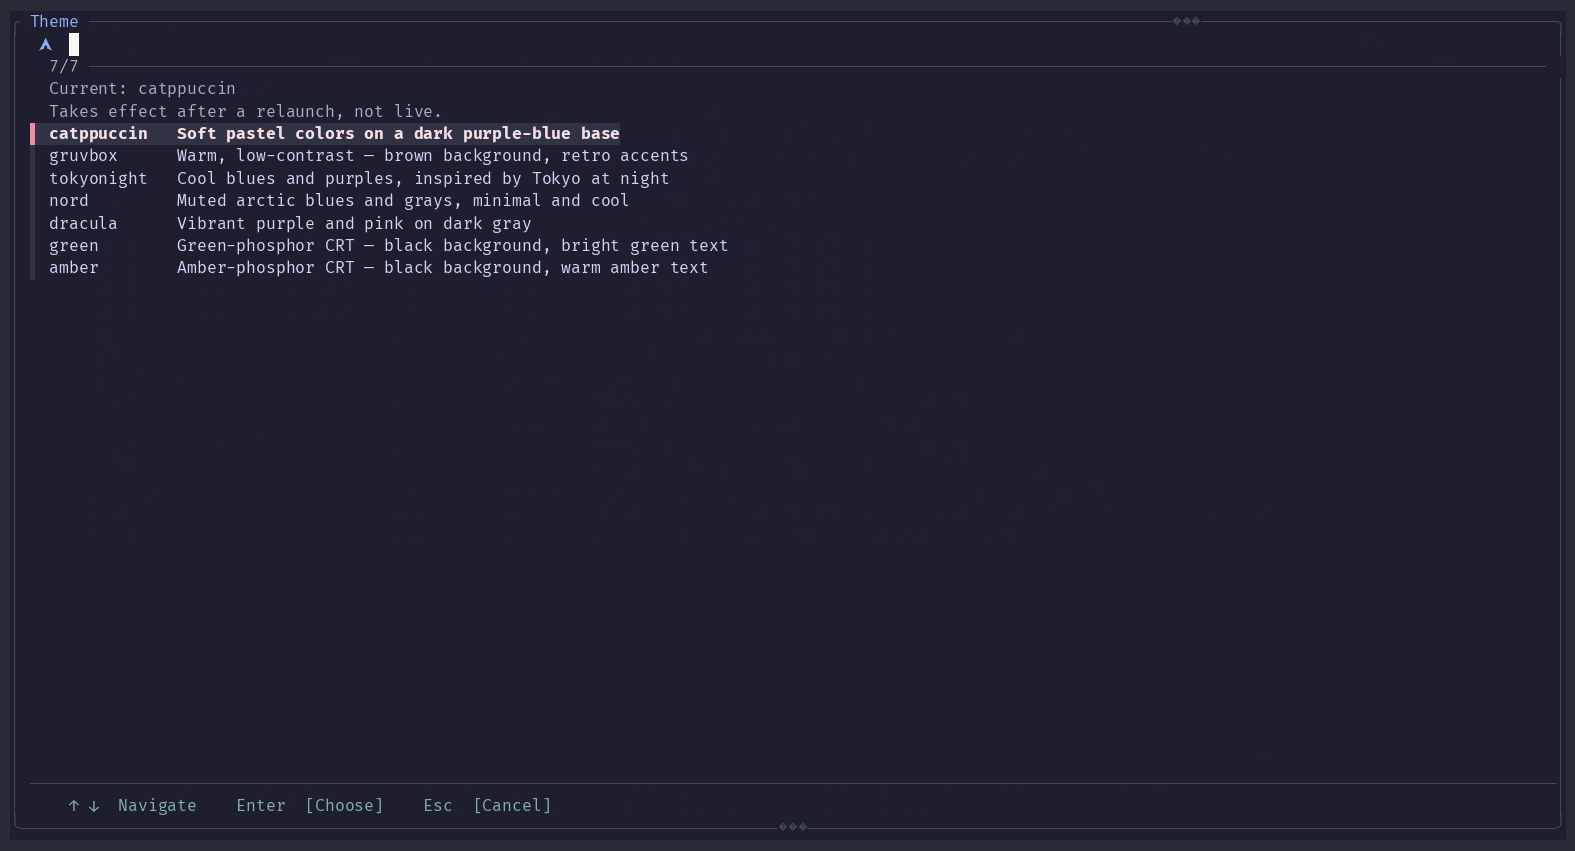
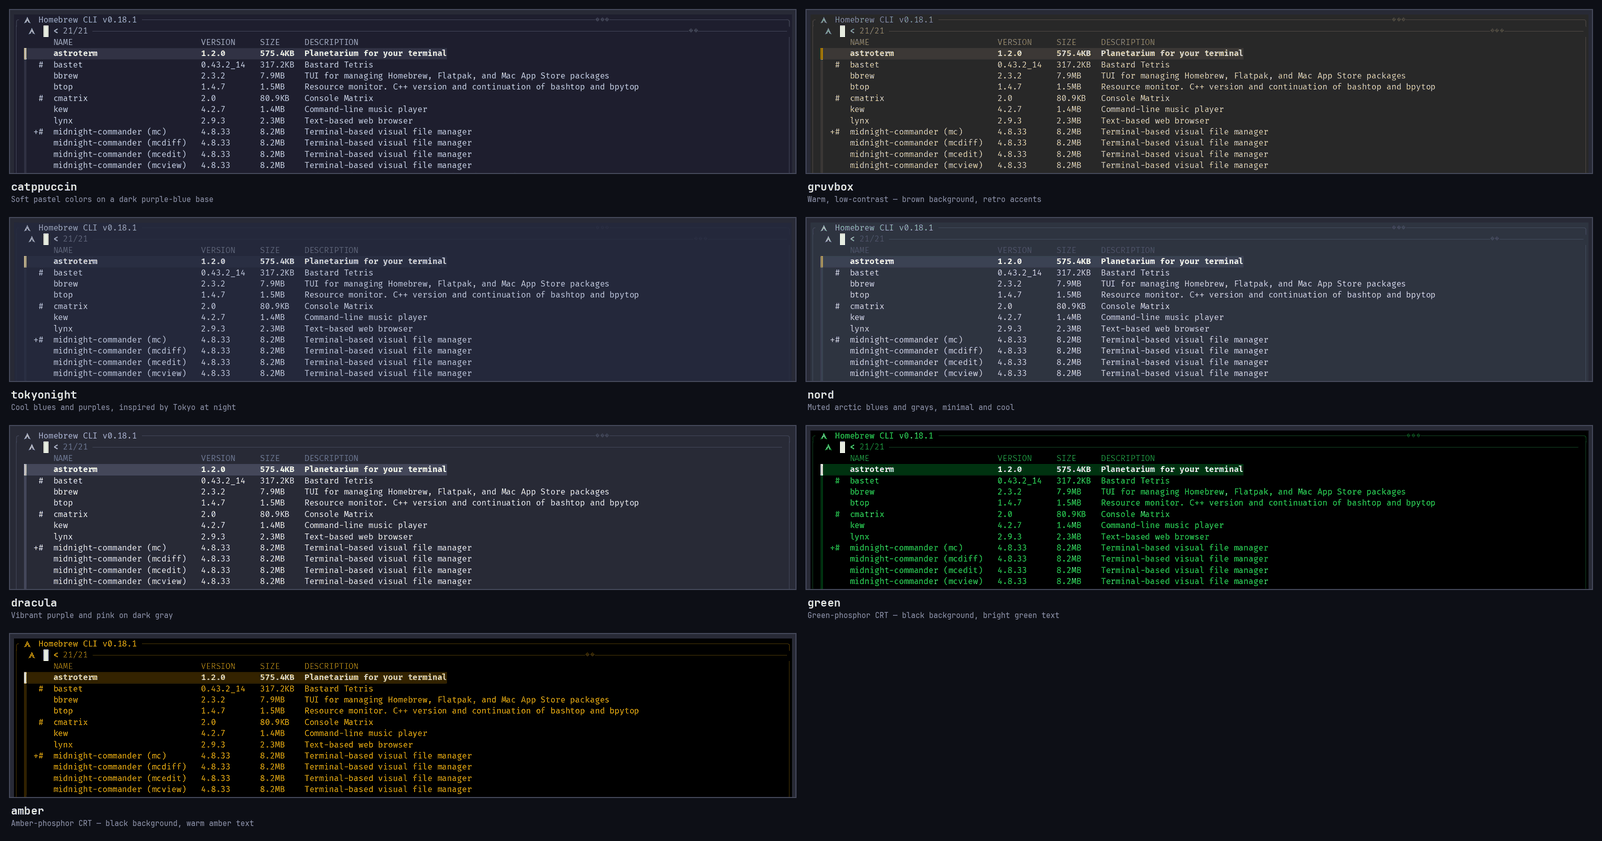
Replace theme screenshot with a side-by-side color collage
The old themes.png only showed the picker MENU (names + descriptions),
rendered in whichever theme happened to be active -- it never actually
showed what any of the other six themes look like. Replaced with a
7-panel collage: the same real list, screenshotted once per theme
(BREW_LAUNCHER_THEME=<name> against the same curated cache), cropped
and laid out with labels.

Quantized to a 256-color palette after resizing -- terminal
screenshots are mostly flat color blocks, so this shrank the file
~3.5x (522KB -> 145KB) with no visible quality loss.

diff --git a/README.md b/README.md
@@ -181,7 +181,7 @@ File format and the `--preset` CLI flag are in [Configuration](#configuration).
 
 ### Color themes
 
-<p align="center"><img src="assets/themes.png" alt="The Theme picker showing all seven palettes with descriptions"></p>
+<p align="center"><img src="assets/themes.png" alt="The same list rendered in all seven themes side by side, showing each palette's actual colors"></p>
 
 Seven built-in palettes: five popular modern ones — `catppuccin` (the
 default), `gruvbox`, `tokyonight`, `nord`, `dracula` — plus two real, older
